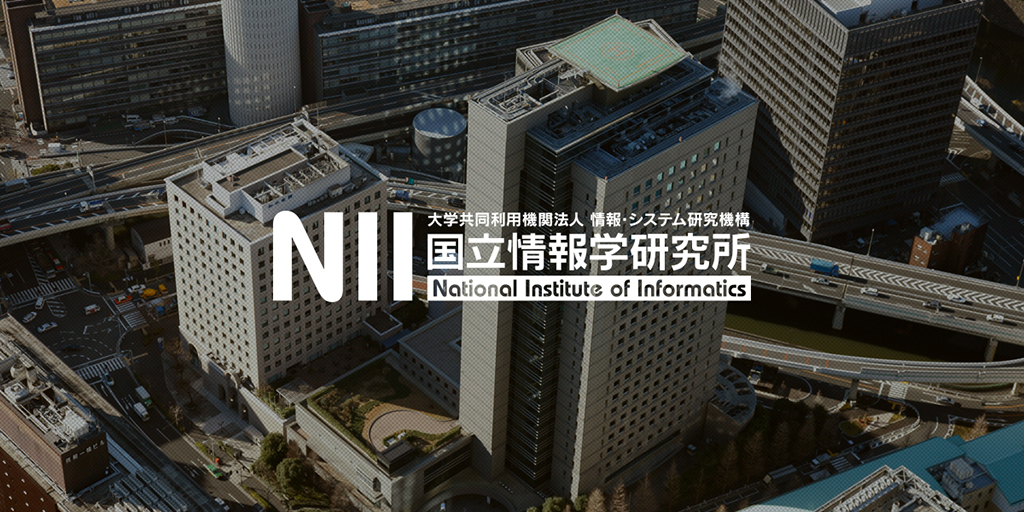
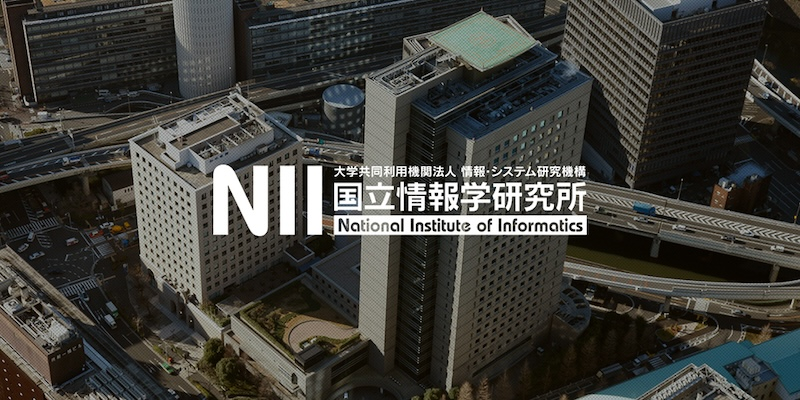
resize bckg img

Changed region(s): [[0.4062, 0.39, 0.75, 0.57], [0.4062, 0.48, 0.4688, 0.57], [0.0312, 0.81, 0.0625, 0.84]]

diff --git a/_sass/_base.scss b/_sass/_base.scss
@@ -546,7 +546,7 @@ footer.sticky-bottom {
   color: white;
 }
 
-.post-header::before {
+.header::after {
   content: "";
   position: absolute;
   top: 0;
@@ -555,7 +555,6 @@ footer.sticky-bottom {
   height: 100%;
   background-image: url('/assets/img/bg_nii.jpeg'); /* Replace with your image URL */
   background-size: cover;
-  background-position: center;
   background-repeat: no-repeat;
   opacity: 0.5; /* Adjust the opacity as needed */
   z-index: -1; /* Places the image behind the text */
